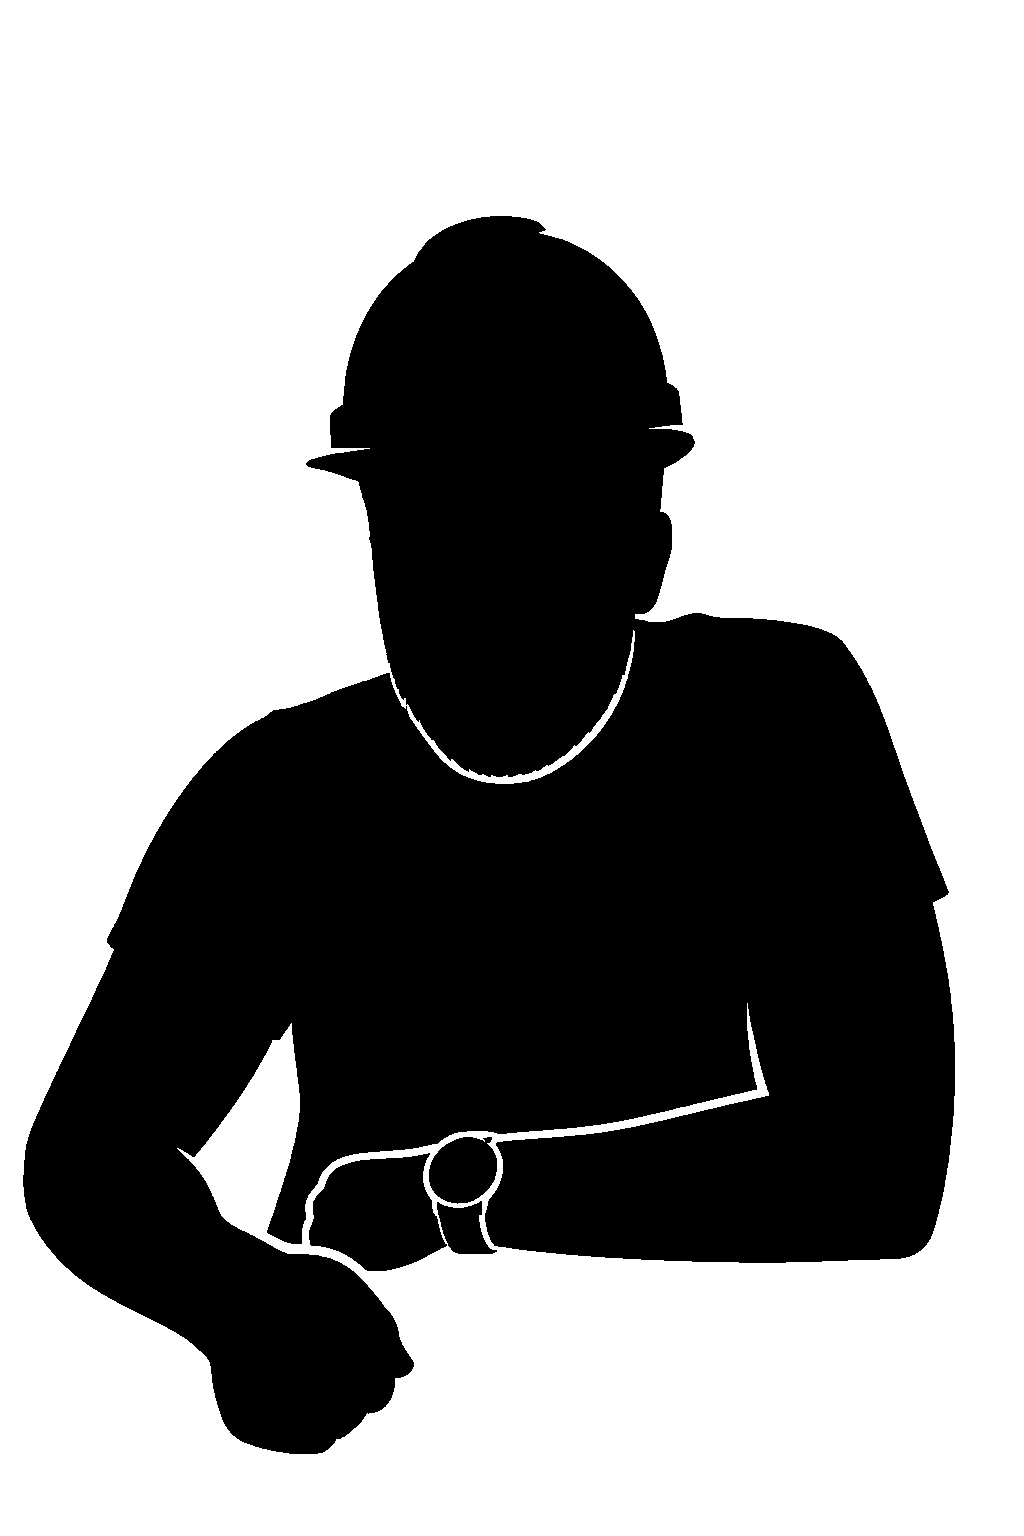
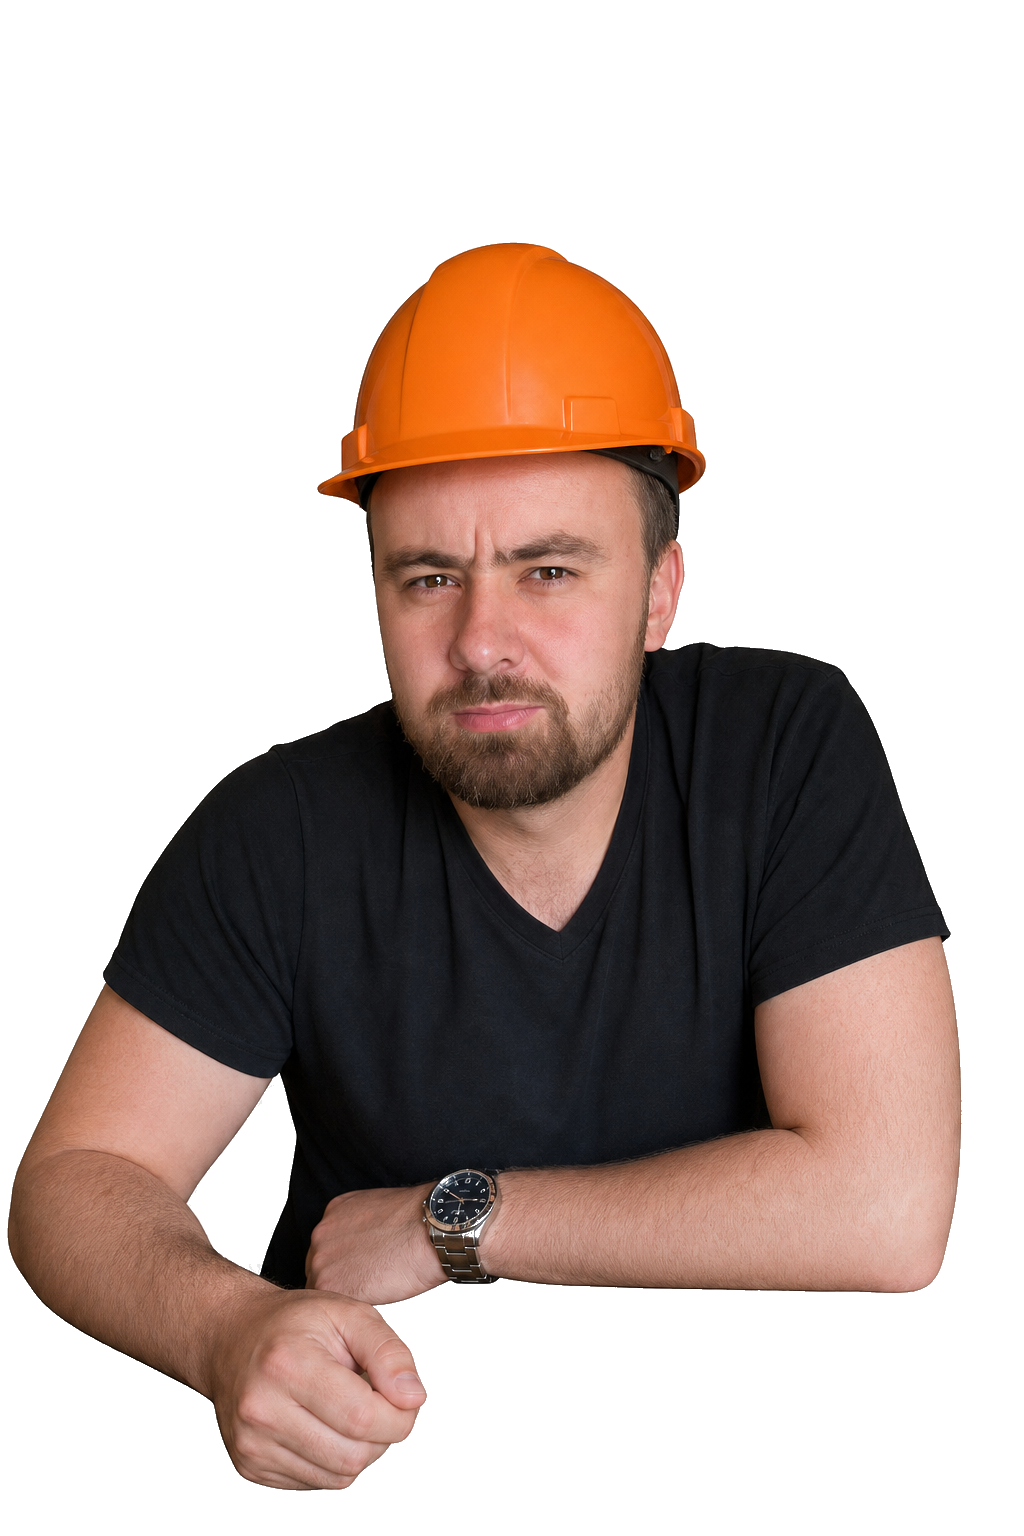
fix ivan

diff --git a/app/components/AdminLoginNikitosEasterEgg.vue b/app/components/AdminLoginNikitosEasterEgg.vue
@@ -140,7 +140,7 @@ const figureStyle = (figure: FigurePlacement) => ({
     object-position: center bottom;
     animation: nikitos-blink 2.2s ease-in-out infinite;
     animation-delay: var(--nikitos-delay, 0s);
-    filter: brightness(0);
+    filter: drop-shadow(0 8px 18px rgba(13, 27, 42, 0.22));
 
     &--left {
       left: 0;
@@ -213,12 +213,12 @@ const figureStyle = (figure: FigurePlacement) => ({
   0%,
   100% {
     opacity: 1;
-    filter: brightness(0);
+    filter: drop-shadow(0 8px 18px rgba(13, 27, 42, 0.22)) brightness(1);
   }
 
   50% {
-    opacity: 0.2;
-    filter: brightness(0);
+    opacity: 0.35;
+    filter: drop-shadow(0 8px 18px rgba(13, 27, 42, 0.12)) brightness(1.08);
   }
 }
 
